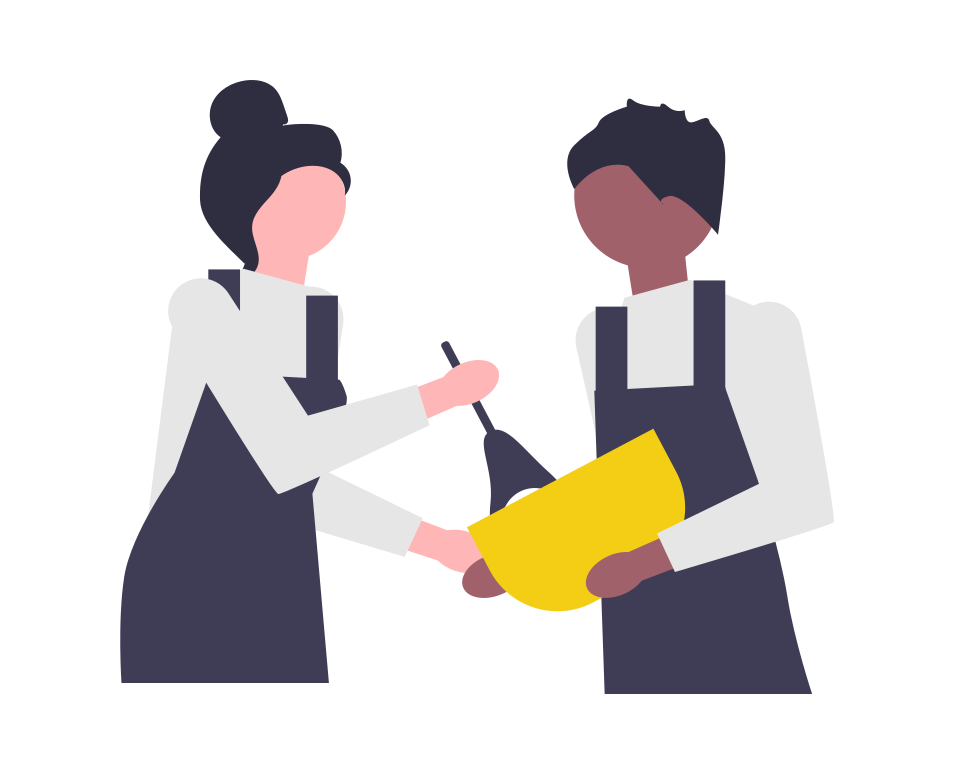
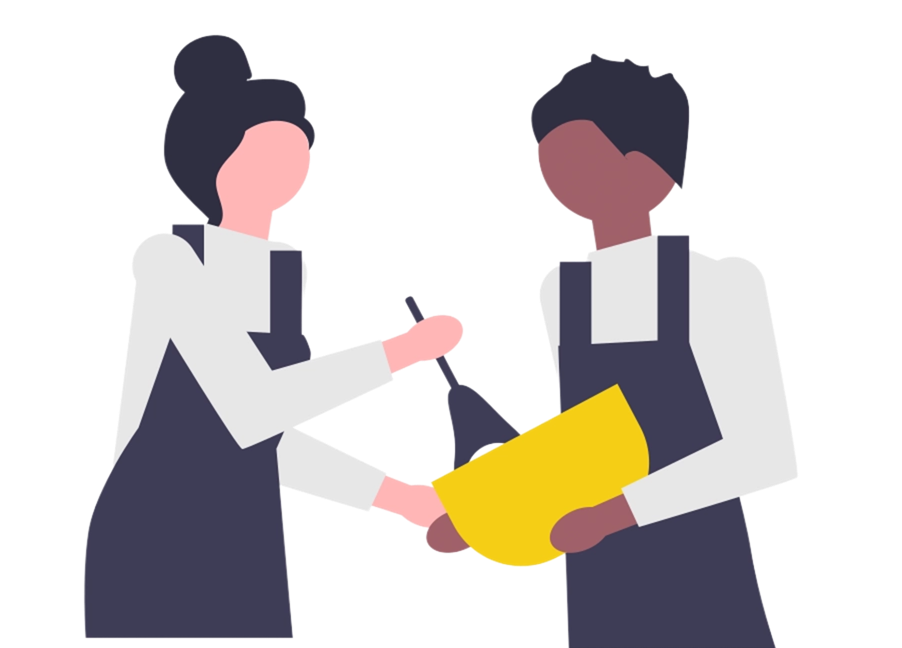
Commit: Onboarding first page

Changed region(s): [[0.0931, 0.0309, 0.8692, 1.0], [0.6208, 0.3086, 0.6519, 0.3395]]

diff --git a/little-lemon-react-native-app/app/index.jsx b/little-lemon-react-native-app/app/index.jsx
@@ -1,13 +1,110 @@
 import { StatusBar } from 'expo-status-bar';
-import { Text, View } from 'react-native';
+import { ScrollView, Text, Image, View } from 'react-native';
 import { Link } from 'expo-router';
+import { SafeAreaView } from 'react-native-safe-area-context';
+import { images } from "../constants";
 
 export default function App() {
   return (
-    <View className="flex-1 items-center justify-center bg-white">
-      <Text className= "text-3xl font-markazi-medium">Ayoo!</Text>
-      <StatusBar style="auto" />
-      <Link href="/home" style={{ color: 'blue' }}>Go to Home</Link>
-    </View>
+    <SafeAreaView className="bg-primary-green h-full">
+      <ScrollView
+        contentContainerStyle={{
+          height: "100%",
+        }}
+      >
+        <View className="w-full flex justify-center items-center h-full px-4">
+          <Image
+            source={images.cards}
+            className="w-[300px] h-[300px]"
+            resizeMode="contain"
+          />
+
+          <Text className="text-3xl text-white font-bold text-center font-markazi-medium">
+            Welcome to Little Lemon!{"\n"}
+            Fresh &{" "}
+            <Text className="text-secondary-200 text-primary-yellow">Delicious</Text>
+          </Text>
+        </View>
+      </ScrollView>
+    </SafeAreaView>
   );
 }
+
+/*
+<SafeAreaView className="flex-1 items-center justify-center bg-primary-green">
+<Text className= "text-3xl font-markazi-medium">Ayoo!</Text>
+<StatusBar style="auto" />
+<Link href="/home" style={{ color: 'blue' }}>Go to Home</Link>
+
+import { StatusBar } from "expo-status-bar";
+import { Redirect, router } from "expo-router";
+import { View, Text, Image, ScrollView } from "react-native";
+import { SafeAreaView } from "react-native-safe-area-context";
+
+import { images } from "../constants";
+import { CustomButton, Loader } from "../components";
+import { useGlobalContext } from "../context/GlobalProvider";
+
+const Welcome = () => {
+  const { loading, isLogged } = useGlobalContext();
+
+  if (!loading && isLogged) return <Redirect href="/home" />;
+
+  return (
+    <SafeAreaView className="bg-primary h-full">
+      <Loader isLoading={loading} />
+
+      <ScrollView
+        contentContainerStyle={{
+          height: "100%",
+        }}
+      >
+        <View className="w-full flex justify-center items-center h-full px-4">
+          <Image
+            source={images.logo}
+            className="w-[130px] h-[84px]"
+            resizeMode="contain"
+          />
+
+          <Image
+            source={images.cards}
+            className="max-w-[380px] w-full h-[298px]"
+            resizeMode="contain"
+          />
+
+          <View className="relative mt-5">
+            <Text className="text-3xl text-white font-bold text-center">
+              Discover Endless{"\n"}
+              Possibilities with{" "}
+              <Text className="text-secondary-200">Aora</Text>
+            </Text>
+
+            <Image
+              source={images.path}
+              className="w-[136px] h-[15px] absolute -bottom-2 -right-8"
+              resizeMode="contain"
+            />
+          </View>
+
+          <Text className="text-sm font-pregular text-gray-100 mt-7 text-center">
+            Where Creativity Meets Innovation: Embark on a Journey of Limitless
+            Exploration with Aora
+          </Text>
+
+          <CustomButton
+            title="Continue with Email"
+            handlePress={() => router.push("/sign-in")}
+            containerStyles="w-full mt-7"
+          />
+        </View>
+      </ScrollView>
+
+      <StatusBar backgroundColor="#161622" style="light" />
+    </SafeAreaView>
+  );
+};
+
+export default Welcome;
+
+
+  */